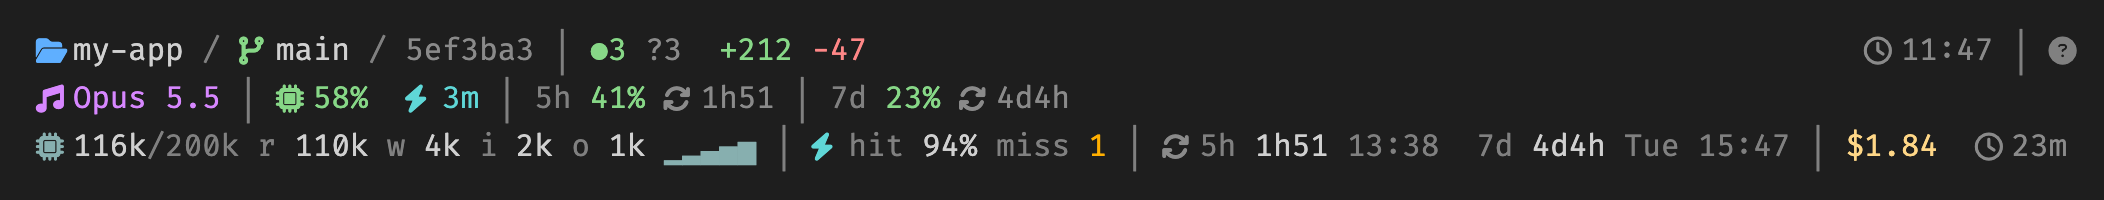
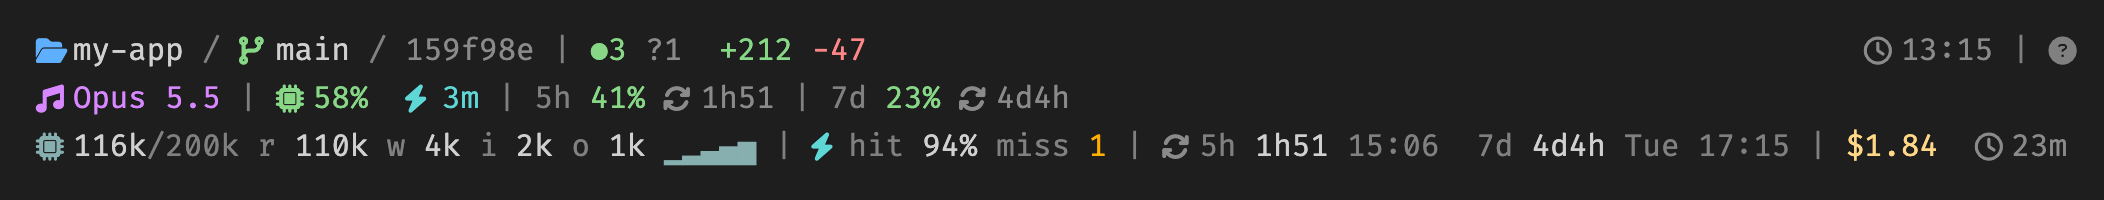
feat: separate groups with a pipe that matches the slashes

diff --git a/scripts/cheatsheet.html b/scripts/cheatsheet.html
@@ -52,9 +52,9 @@
   <h1>Status line cheat sheet</h1>
   <p class="lede">What each symbol on the Claude Code status line means. The third row is off until you run <code>/glance:detail</code>. Anything without data is left out, so a row may show fewer parts than this.</p>
 
-  <div class="preview mono"><span class="blue">&#xf07c;</span> my-app <span class="d">/</span> <span class="green">&#xf126;</span> main <span class="d">/</span> <span class="grey">e70fed6</span> <span class="d">│</span> <span class="sky">↑2</span> <span class="green">●3</span> <span class="amber">✚9</span> <span class="grey">?1</span>  <span class="green">+212</span> <span class="coral">−47</span>           <span class="grey">&#xf017; 02:31</span> <span class="d">│</span> <span class="d">&#xf059;</span>
-<span class="lilac">&#xf001; Opus 5.5</span> <span class="d">│</span> <span class="green">&#xf2db; 58%</span>  <span class="teal">&#xf0e7; 3m</span> <span class="d">│</span> <span class="d">5h</span> <span class="green">41%</span> <span class="grey">&#xf021; 1h51</span> <span class="d">│</span> <span class="d">7d</span> <span class="green">23%</span> <span class="grey">&#xf021; 4d4h</span>
-<span style="color:#87afaf">&#xf2db;</span> 116k<span class="d">/200k</span> <span class="d">r</span> 110k <span class="d">w</span> 4k <span class="d">i</span> 2k <span class="d">o</span> 1k <span style="color:#87afaf">▂▃▅▆</span> <span class="d">│</span> <span class="teal">&#xf0e7;</span> <span class="d">hit</span> 94% <span class="d">miss</span> <span class="amber">1</span> <span class="d">│</span> <span class="grey">&#xf021;</span> <span class="d">5h</span> 1h51 <span class="d">04:43</span>  <span class="d">7d</span> 4d4h <span class="d">Tue 06:51</span> <span class="d">│</span> <span class="gold">$1.84</span>  <span class="grey">&#xf017;</span> 23m <span class="d">api</span> 7m</div>
+  <div class="preview mono"><span class="blue">&#xf07c;</span> my-app <span class="d">/</span> <span class="green">&#xf126;</span> main <span class="d">/</span> <span class="grey">e70fed6</span> <span class="d">|</span> <span class="sky">↑2</span> <span class="green">●3</span> <span class="amber">✚9</span> <span class="grey">?1</span>  <span class="green">+212</span> <span class="coral">−47</span>           <span class="grey">&#xf017; 02:31</span> <span class="d">|</span> <span class="d">&#xf059;</span>
+<span class="lilac">&#xf001; Opus 5.5</span> <span class="d">|</span> <span class="green">&#xf2db; 58%</span>  <span class="teal">&#xf0e7; 3m</span> <span class="d">|</span> <span class="d">5h</span> <span class="green">41%</span> <span class="grey">&#xf021; 1h51</span> <span class="d">|</span> <span class="d">7d</span> <span class="green">23%</span> <span class="grey">&#xf021; 4d4h</span>
+<span style="color:#87afaf">&#xf2db;</span> 116k<span class="d">/200k</span> <span class="d">r</span> 110k <span class="d">w</span> 4k <span class="d">i</span> 2k <span class="d">o</span> 1k <span style="color:#87afaf">▂▃▅▆</span> <span class="d">|</span> <span class="teal">&#xf0e7;</span> <span class="d">hit</span> 94% <span class="d">miss</span> <span class="amber">1</span> <span class="d">|</span> <span class="grey">&#xf021;</span> <span class="d">5h</span> 1h51 <span class="d">04:43</span>  <span class="d">7d</span> 4d4h <span class="d">Tue 06:51</span> <span class="d">|</span> <span class="gold">$1.84</span>  <span class="grey">&#xf017;</span> 23m <span class="d">api</span> 7m</div>
 
   <h2>Row 1 — the repo</h2>
   <table>
